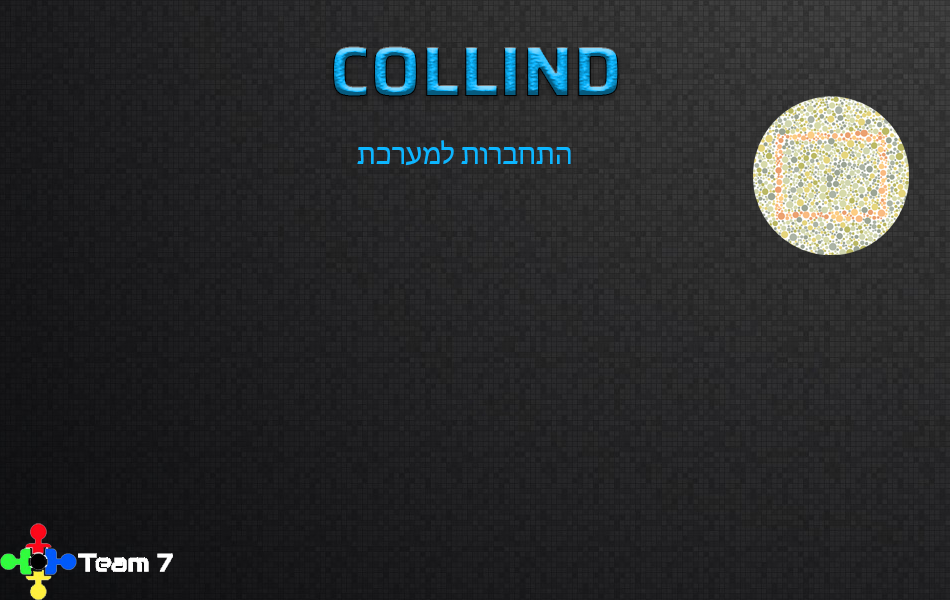
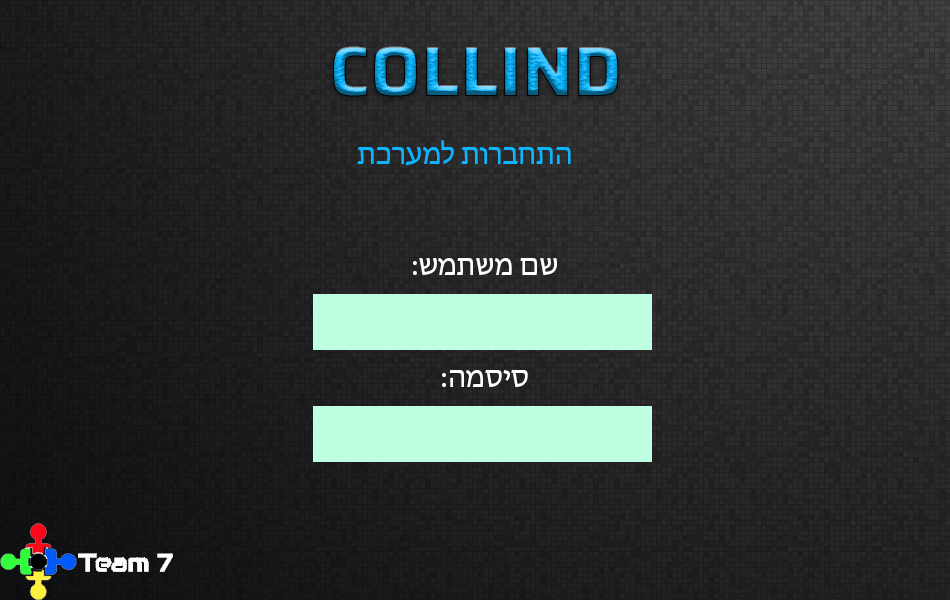
1,11,21 User Storie add login Page and screens

Changed region(s): [[0.3053, 0.42, 0.7021, 0.78], [0.7937, 0.15, 0.9768, 0.45]]

diff --git a/pygame_textinput.py b/pygame_textinput.py
@@ -1,0 +1,205 @@
+"""
+Copyright 2017, Silas Gyger, silasgyger@gmail.com, All rights reserved.
+Borrowed from https://github.com/Nearoo/pygame-text-input under the MIT license.
+"""
+
+import os.path
+
+import pygame
+import pygame.locals as pl
+
+pygame.font.init()
+
+
+class TextInput:
+    """
+    This class lets the user input a piece of text, e.g. a name or a message.
+    This class let's the user input a short, one-lines piece of text at a blinking cursor
+    that can be moved using the arrow-keys. Delete, home and end work as well.
+    """
+    def __init__(
+            self,
+            initial_string="",
+            font_family="",
+            font_size=35,
+            antialias=True,
+            text_color=(0, 0, 0),
+            cursor_color=(0, 0, 1),
+            repeat_keys_initial_ms=400,
+            repeat_keys_interval_ms=35,
+            max_string_length=-1):
+        """
+        :param initial_string: Initial text to be displayed
+        :param font_family: name or list of names for font (see pygame.font.match_font for precise format)
+        :param font_size:  Size of font in pixels
+        :param antialias: Determines if antialias is applied to font (uses more processing power)
+        :param text_color: Color of text (duh)
+        :param cursor_color: Color of cursor
+        :param repeat_keys_initial_ms: Time in ms before keys are repeated when held
+        :param repeat_keys_interval_ms: Interval between key press repetition when held
+        :param max_string_length: Allowed length of text
+        """
+
+        # Text related vars:
+        self.antialias = antialias
+        self.text_color = text_color
+        self.font_size = font_size
+        self.max_string_length = max_string_length
+        self.input_string = initial_string  # Inputted text
+
+        if not os.path.isfile(font_family):
+            font_family = pygame.font.match_font(font_family)
+
+        self.font_object = pygame.font.Font(font_family, font_size)
+
+        # Text-surface will be created during the first update call:
+        self.surface = pygame.Surface((1, 1))
+        self.surface.set_alpha(0)
+
+        # Vars to make keydowns repeat after user pressed a key for some time:
+        self.keyrepeat_counters = {}  # {event.key: (counter_int, event.unicode)} (look for "***")
+        self.keyrepeat_intial_interval_ms = repeat_keys_initial_ms
+        self.keyrepeat_interval_ms = repeat_keys_interval_ms
+
+        # Things cursor:
+        self.cursor_surface = pygame.Surface((int(self.font_size / 20 + 1), self.font_size))
+        self.cursor_surface.fill(cursor_color)
+        self.cursor_position = len(initial_string)  # Inside text
+        self.cursor_visible = True  # Switches every self.cursor_switch_ms ms
+        self.cursor_switch_ms = 500  # /|\
+        self.cursor_ms_counter = 0
+
+        self.clock = pygame.time.Clock()
+
+    def update(self, events):
+        for event in events:
+            if event.type == pygame.KEYDOWN:
+                self.cursor_visible = True  # So the user sees where he writes
+
+                # If none exist, create counter for that key:
+                if event.key not in self.keyrepeat_counters:
+                    self.keyrepeat_counters[event.key] = [0, event.unicode]
+
+                if event.key == pl.K_BACKSPACE:
+                    self.input_string = (
+                        self.input_string[:max(self.cursor_position - 1, 0)]
+                        + self.input_string[self.cursor_position:]
+                    )
+
+                    # Subtract one from cursor_pos, but do not go below zero:
+                    self.cursor_position = max(self.cursor_position - 1, 0)
+                elif event.key == pl.K_DELETE:
+                    self.input_string = (
+                        self.input_string[:self.cursor_position]
+                        + self.input_string[self.cursor_position + 1:]
+                    )
+
+                elif event.key == pl.K_RETURN:
+                    return True
+
+                elif event.key == pl.K_RIGHT:
+                    # Add one to cursor_pos, but do not exceed len(input_string)
+                    self.cursor_position = min(self.cursor_position + 1, len(self.input_string))
+
+                elif event.key == pl.K_LEFT:
+                    # Subtract one from cursor_pos, but do not go below zero:
+                    self.cursor_position = max(self.cursor_position - 1, 0)
+
+                elif event.key == pl.K_END:
+                    self.cursor_position = len(self.input_string)
+
+                elif event.key == pl.K_HOME:
+                    self.cursor_position = 0
+
+                elif len(self.input_string) < self.max_string_length or self.max_string_length == -1:
+                    # If no special key is pressed, add unicode of key to input_string
+                    self.input_string = (
+                        self.input_string[:self.cursor_position]
+                        + event.unicode
+                        + self.input_string[self.cursor_position:]
+                    )
+                    self.cursor_position += len(event.unicode)  # Some are empty, e.g. K_UP
+
+            elif event.type == pl.KEYUP:
+                # *** Because KEYUP doesn't include event.unicode, this dict is stored in such a weird way
+                if event.key in self.keyrepeat_counters:
+                    del self.keyrepeat_counters[event.key]
+
+        # Update key counters:
+        for key in self.keyrepeat_counters:
+            self.keyrepeat_counters[key][0] += self.clock.get_time()  # Update clock
+
+            # Generate new key events if enough time has passed:
+            if self.keyrepeat_counters[key][0] >= self.keyrepeat_intial_interval_ms:
+                self.keyrepeat_counters[key][0] = (
+                    self.keyrepeat_intial_interval_ms
+                    - self.keyrepeat_interval_ms
+                )
+
+                event_key, event_unicode = key, self.keyrepeat_counters[key][1]
+                pygame.event.post(pygame.event.Event(pl.KEYDOWN, key=event_key, unicode=event_unicode))
+
+        # Re-render text surface:
+        self.surface = self.font_object.render(self.input_string, self.antialias, self.text_color)
+
+        # Update self.cursor_visible
+        self.cursor_ms_counter += self.clock.get_time()
+        if self.cursor_ms_counter >= self.cursor_switch_ms:
+            self.cursor_ms_counter %= self.cursor_switch_ms
+            self.cursor_visible = not self.cursor_visible
+
+        if self.cursor_visible:
+            cursor_y_pos = self.font_object.size(self.input_string[:self.cursor_position])[0]
+            # Without this, the cursor is invisible when self.cursor_position > 0:
+            if self.cursor_position > 0:
+                cursor_y_pos -= self.cursor_surface.get_width()
+            self.surface.blit(self.cursor_surface, (cursor_y_pos, 0))
+
+        self.clock.tick()
+        return False
+
+    def get_surface(self):
+        return self.surface
+
+    def get_text(self):
+        return self.input_string
+
+    def get_cursor_position(self):
+        return self.cursor_position
+
+    def set_text_color(self, color):
+        self.text_color = color
+
+    def set_cursor_color(self, color):
+        self.cursor_surface.fill(color)
+
+    def clear_text(self):
+        self.input_string = ""
+        self.cursor_position = 0
+
+
+
+if __name__ == "__main__":
+    pygame.init()
+
+    # Create TextInput-object
+    textinput = TextInput()
+
+    screen = pygame.display.set_mode((1000, 200))
+    clock = pygame.time.Clock()
+
+    while True:
+        screen.fill((225, 225, 225))
+
+        events = pygame.event.get()
+        for event in events:
+            if event.type == pygame.QUIT:
+                exit()
+
+        # Feed it with events every frame
+        textinput.update(events)
+        # Blit its surface onto the screen
+        screen.blit(textinput.get_surface(), (10, 10))
+
+        pygame.display.update()
+        clock.tick(30)

diff --git a/Main.py b/Main.py
@@ -1,6 +1,8 @@
 import pygame
 import random
 import excelfunc
+from pygame.locals import *
+import pygame_textinput
 
 # Define some colors
 BLACK = (0, 0, 0)
@@ -13,7 +15,7 @@ Clock = pygame.time.Clock()
 # Set the width and height of the screen [width, height]
 size = (950, 600)
 screen = pygame.display.set_mode(size)
-
+textinput = pygame_textinput.TextInput()
 # Variables
 screen_Num = 0
 Mouse_x = 0
@@ -35,6 +37,11 @@ Center_y = 300
 GameID = 0
 count = 0
 font = pygame.font.Font(None, 48)
+username=""
+password=""
+hash=""
+badpassword=False
+baduser=False
 
 pygame.display.set_caption("Collind")
 
@@ -83,7 +90,6 @@ done = False
 
 # Used to manage how fast the screen updates
 clock = pygame.time.Clock()
-
 # -------- Main Program Loop -----------
 while not done:
     # --- Main event loop
@@ -107,23 +113,84 @@ while not done:
     # background image.
    # screen.fill(pygame.image.load(r'CARD5.png'))
     background_image = pygame.image.load("loginbackground.png").convert()
+    badpassword_image = pygame.image.load("WorngPassword.png").convert()
+    baduser_image = pygame.image.load("WorngUserName.png").convert()
     screen.blit(background_image, [0, 0])
     # --- Drawing code should go here
     if screen_Num == 0:
-        font = pygame.font.Font(None, 36)
-        StartB = pygame.draw.rect(screen, BLACK, [Center_x, Center_y, A_wid, A_hig], 1)
-        text = font.render("Start Game", True, BLACK)
-        screen.blit(text, [Center_x + 2, Center_y + A_hig / 2])
-        if event.type == pygame.MOUSEBUTTONDOWN:
-            Mouse_x, Mouse_y = event.pos
-            if StartB.collidepoint(Mouse_x, Mouse_y):
-                Card_Num = random.randint(1, 6)
-                Cube_Num = chr(random.randrange(65, 65 + 5))
-                print(Card_Num,Cube_Num)
-                screen_Num = 1
-                GameID = excelfunc.CreateGameID()
+        running = True
+        while running:
+           # textinput.update(events)
+
+         print(username)
+         for evt in pygame.event.get():
+            if evt.type == KEYDOWN:
+                if evt.unicode.isalpha():
+                    username += evt.unicode
+                elif evt.key == K_BACKSPACE:
+                     username = username[:-1]
+                elif evt.key == K_RETURN:
+                     running = False
+         if(baduser):
+            screen.blit(baduser_image,[0, 0])
+         if (badpassword):
+            screen.blit(baduser_image, [0, 0])
+         block = font.render(username, True, (0, 0, 0))
+         if(not baduser and not baduser):
+          screen.blit(background_image, [0, 0])
+         screen.blit(block, [350, -50+Center_y + A_hig / 2])
+         pygame.display.flip()
+        while not running:
+            # textinput.update(events)
+
+            print(password)
+            for evt in pygame.event.get():
+                if evt.type == KEYDOWN:
+                    if evt.unicode.isalpha():
+                        baduser = False
+                        badpassword = False
+                        password += evt.unicode
+                        hash+="*"
+                    elif evt.key == K_BACKSPACE:
+                        password = password[:-1]
+                        hash = hash[:-1]
+                    elif evt.key == K_RETURN:
+                        running = True
+                        tuple=excelfunc.login(username,password)
+                        print(tuple[1])
+                        if (tuple[0] == False):
+                            screen_Num = 0
+                            if(tuple[1]=='badpassword'):
+                                badpassword=True
+                                username=""
+                                hase=""
+                                password=""
+                            else:
+                                baduser=True
+                                username = ""
+                                hase = ""
+                                password = ""
+
+                        if (tuple[0] == True):
+                            if (tuple[1] == 'admin'):
+                                screen_Num = 1
+            if (baduser):
+                screen.blit(baduser_image, [0, 0])
+            if (badpassword):
+                screen.blit(baduser_image, [0, 0])
+            block = font.render(hash, True, (0, 0, 0))
+            block2 = font.render(username, True, (0, 0, 0))
+            if (not baduser and not baduser):
+             screen.blit(background_image, [0, 0])
+            screen.blit(block, [350, 70 + Center_y + A_hig / 2])
+            screen.blit(block2, [350, -50 + Center_y + A_hig / 2])
+            pygame.display.flip()
+
 
     elif screen_Num == 1:
+      manager_image=pygame.image.load("ManagerMain.png").convert()
+      screen.blit(manager_image, [0, 0])
+    elif screen_Num == 3:
         card(Card_Num)
         A1 = pygame.draw.rect(screen, BLACK, [A1_x, A1_y, A_wid, A_hig], 2)
         text = font.render("1", True, BLACK)

diff --git a/cardandcube.py b/cardandcube.py
@@ -1,10 +1,4 @@
 from random import randint
-<<<<<<< HEAD:Hachaton.py
-
-
-
-=======
->>>>>>> a35fce1e316e76ca0c1f0efabecbcdcf2b4912e4:cardandcube.py
 def coub():
     
     num = randint(1,6) 
